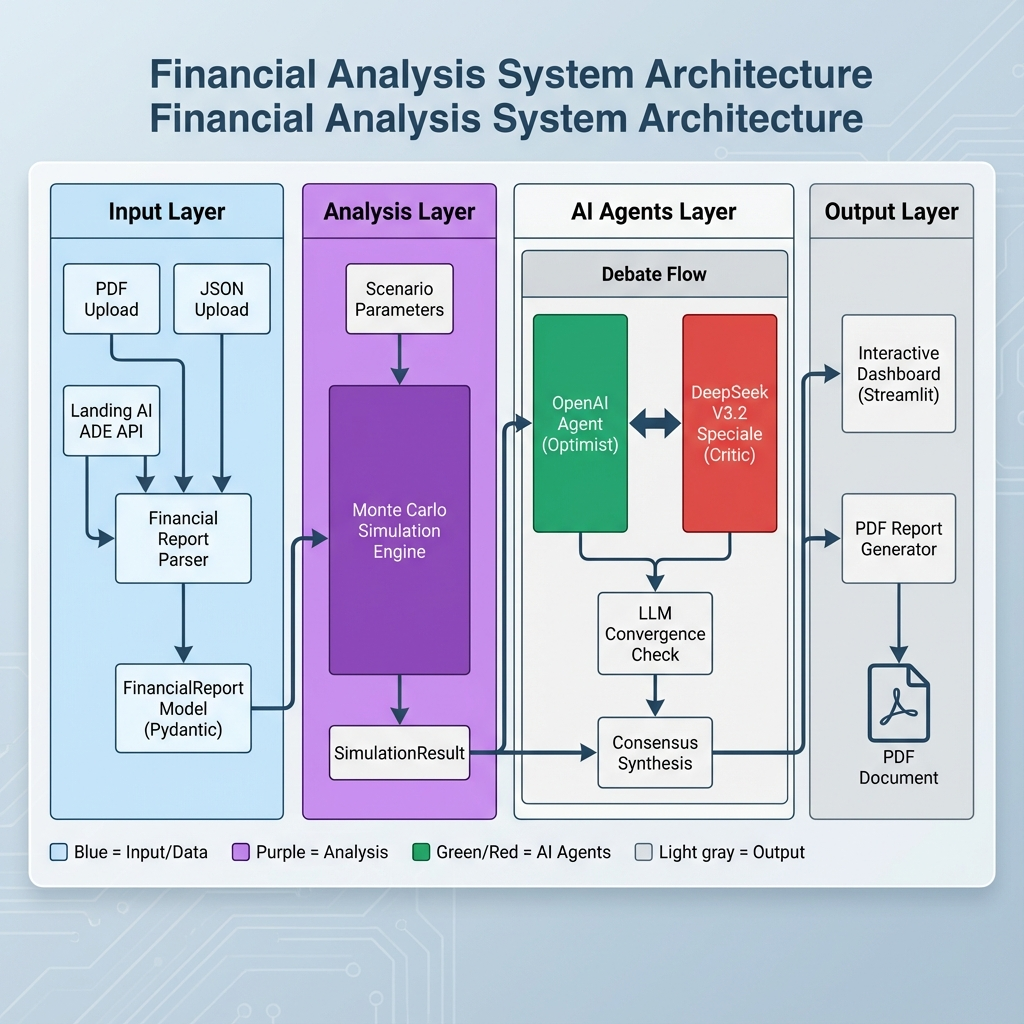
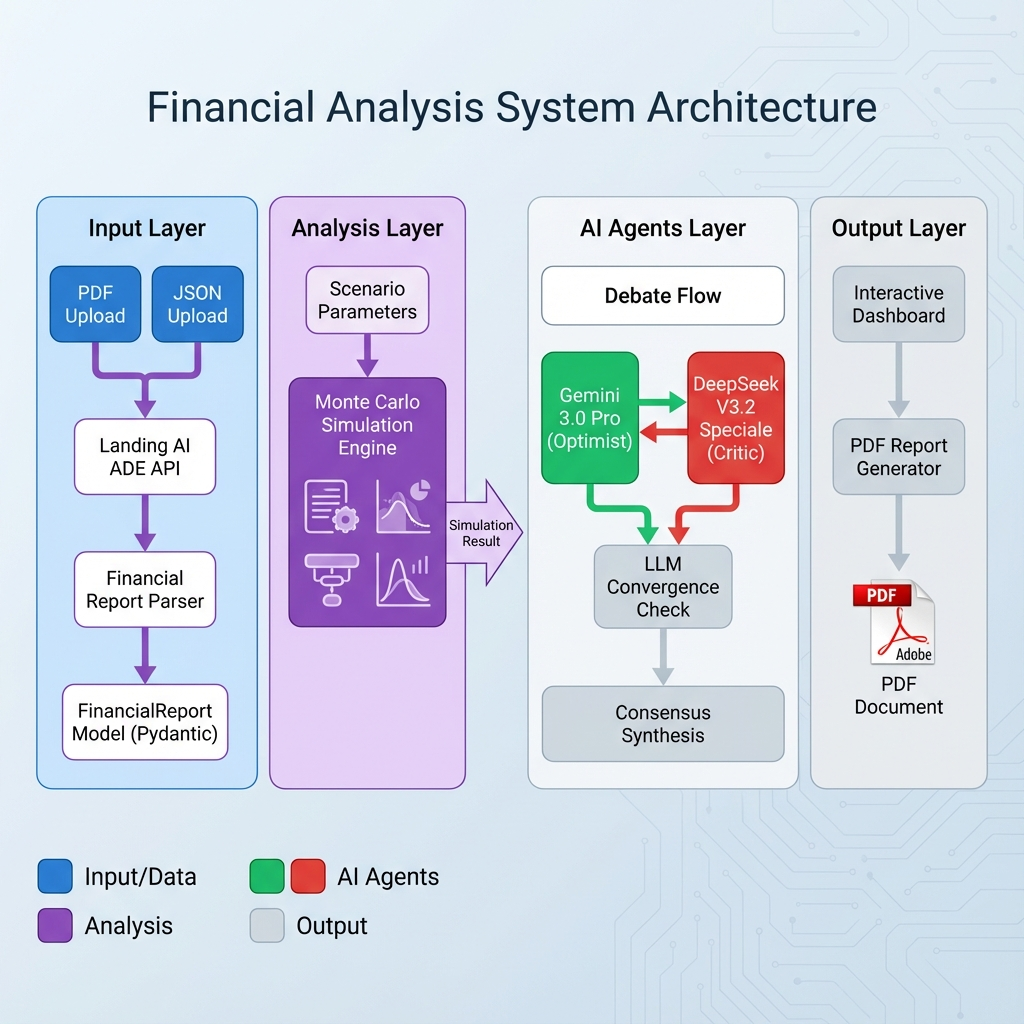
Update architecture: Gemini 3.0 Pro, DeepSeek V3.2 Speciale, remove Streamlit

diff --git a/README.md b/README.md
@@ -12,7 +12,7 @@ The **Counterfactual Financial Oracle** is a sophisticated financial analysis pl
 ### Key Features
 
 ✨ **Multi-Agent AI Debate System**
-- **Gemini Agent** (Optimist): Identifies growth opportunities and upside potential
+- **Gemini 3.0 Pro** (Optimist): Identifies growth opportunities and upside potential
 - **DeepSeek V3.2 Speciale** (Critic): Challenges assumptions and identifies risks
 - **Automated Report Generator**: Compiles findings into comprehensive PDF reports
 
@@ -166,10 +166,10 @@ counterfactual_oracle/
 
 ## Technology Stack
 
-- **Frontend**: Streamlit (Interactive dashboard)
+- **Frontend**: Interactive Dashboard
 - **Backend**: Python 3.8+
 - **AI Models**:
-  - OpenAI GPT-4 (Optimistic analysis)
+  - Gemini 3.0 Pro (Optimistic analysis)
   - DeepSeek V3.2 Speciale (Critical analysis)
 - **Data Processing**: Landing AI ADE API
 - **Financial Modeling**: NumPy, Pandas
